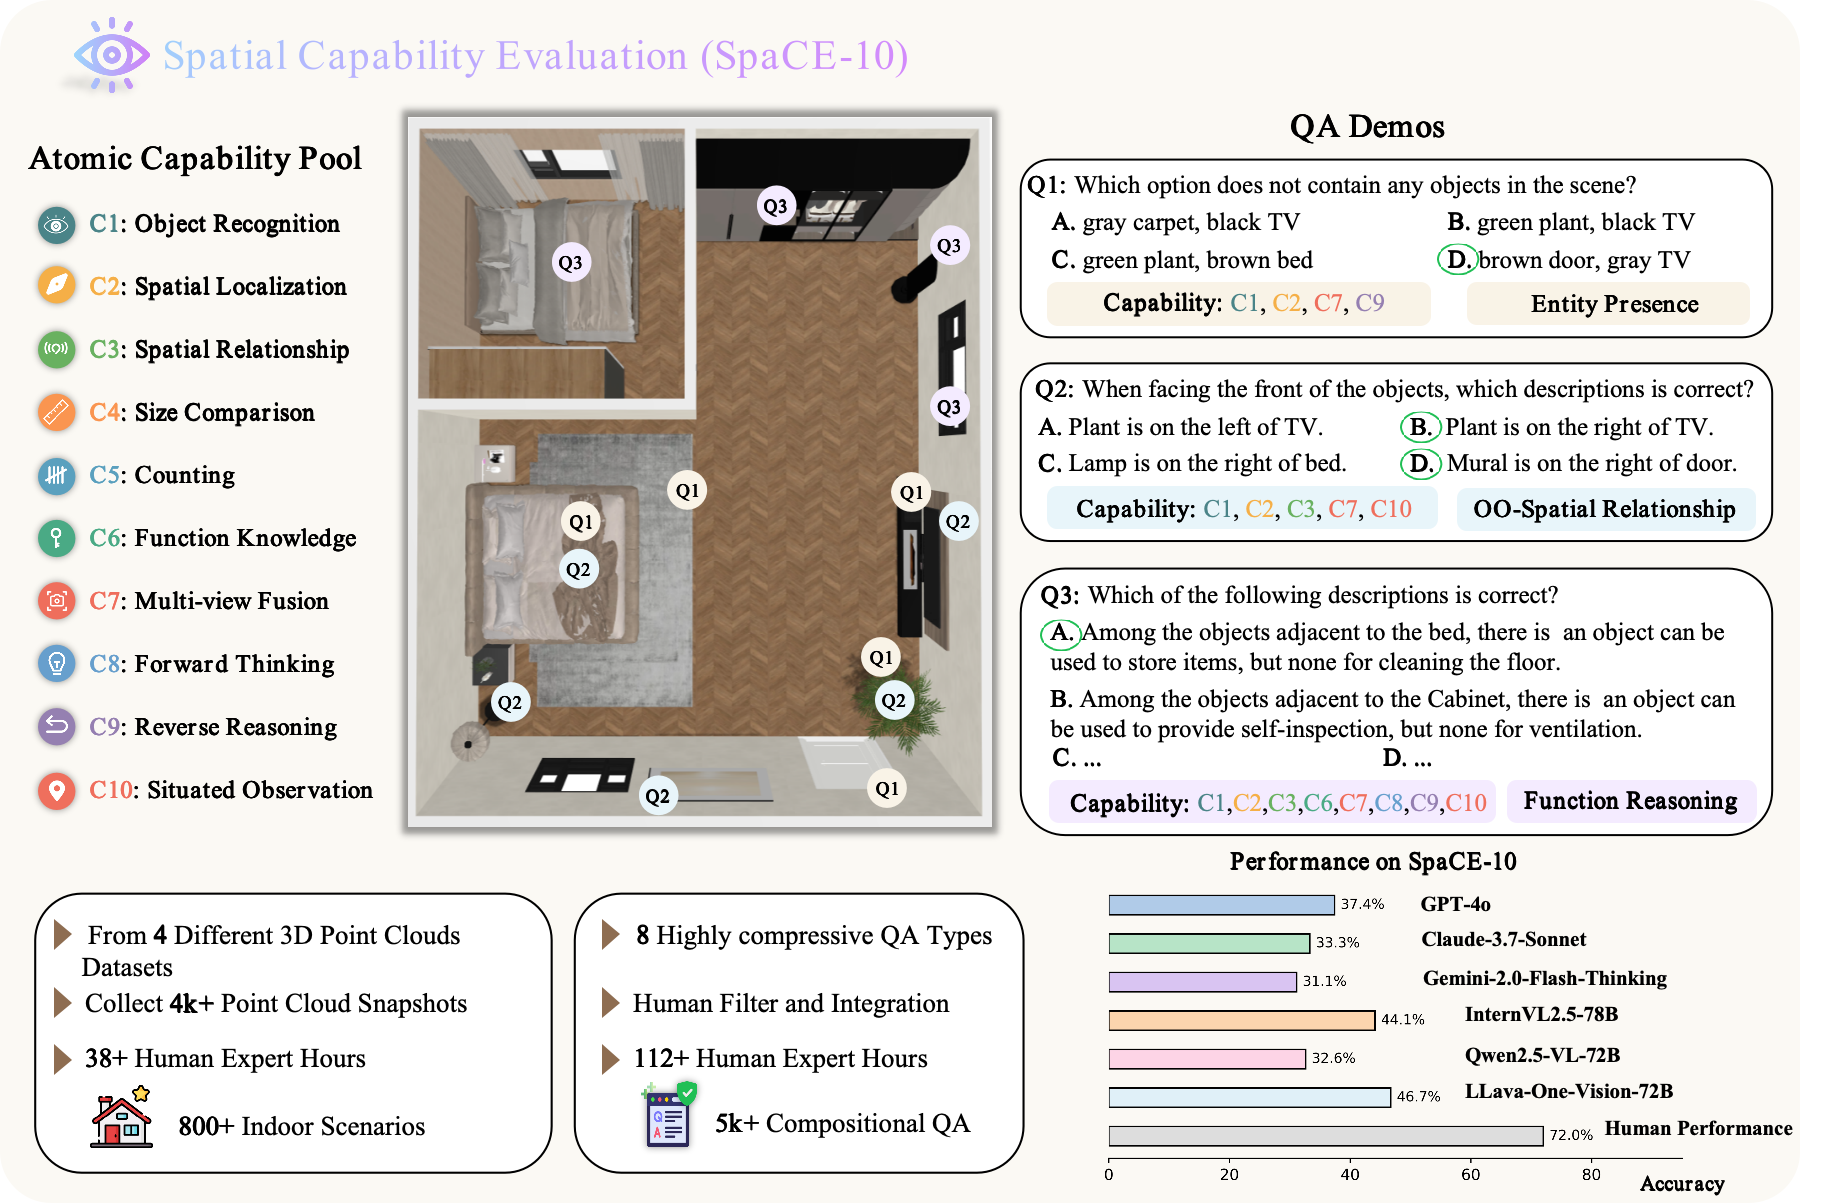
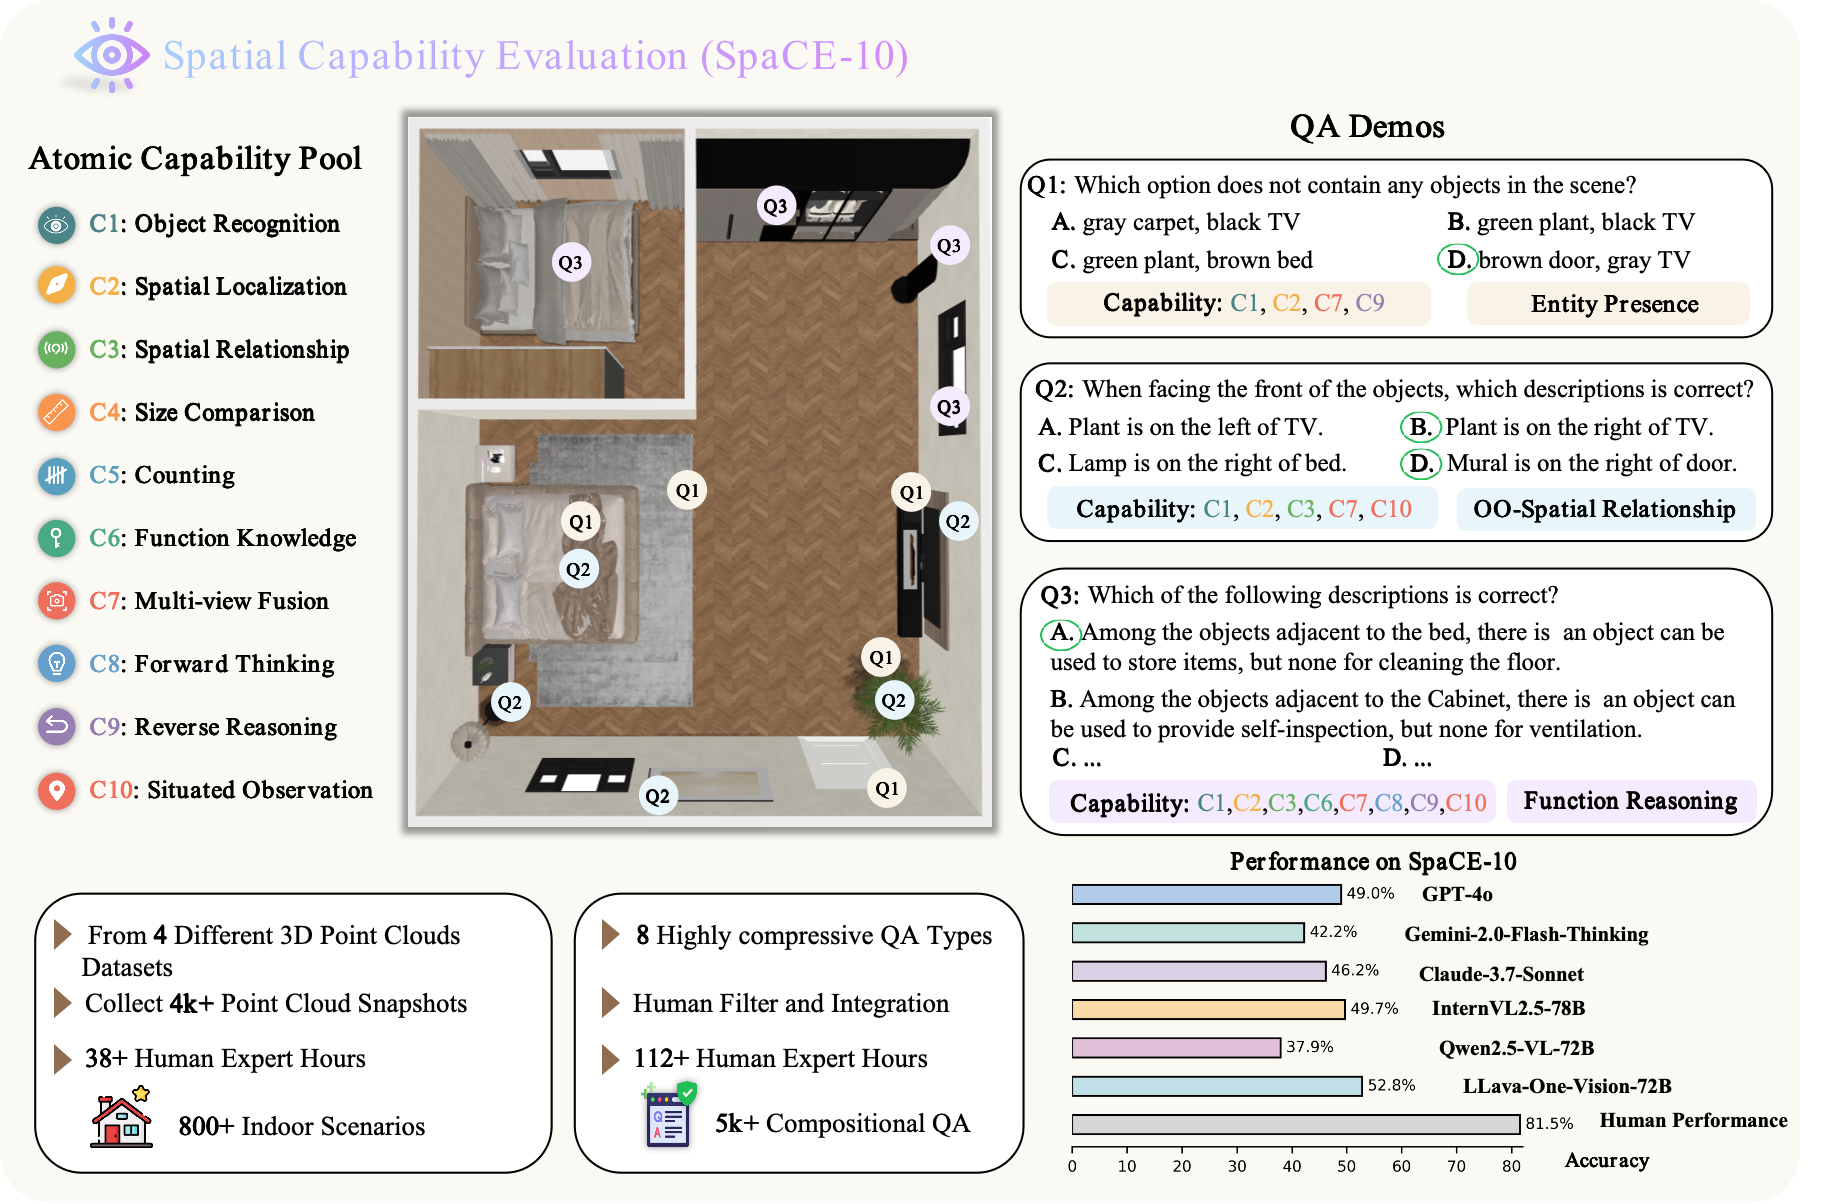
update

Changed region(s): [[0.5573, 0.7068, 0.9908, 1.0]]

diff --git a/lmms_eval/tasks/space_10/space_evals_2choice.py b/lmms_eval/tasks/space_10/space_evals_2choice.py
@@ -82,21 +82,34 @@ class SpaCE_Evaluator_2choice:
 
     # Prefetch Answers
     def can_infer_option(self, answer, num_choice=5):
+        print("answer_1:", answer)
         choices = set(string.ascii_uppercase[:num_choice])  # A ~ E
         answer = answer.strip().upper()
-        
-        # 以逗号切分，剔除空格
-        tokens = [t.strip() for t in answer.split(',')]
+        print("answer_2:", answer)
 
-        # 过滤合法选项
+        try:
+            parsed = ast.literal_eval(answer)
+            if isinstance(parsed, list):
+                tokens = []
+                for item in parsed:
+                    if isinstance(item, str):
+                        tokens.extend([t.strip().upper() for t in item.split(',')])
+                    else:
+                        tokens.append(str(item).strip().upper())
+            else:
+                tokens = [t.strip().upper() for t in answer.split(',')]
+        except:
+            tokens = [t.strip().upper() for t in answer.split(',')]
+
+        print("answer_3:", tokens)
+
         filtered = sorted(list(set([t for t in tokens if t in choices])))
-        # print("filtered:",filtered)
+        print("filtered:", filtered)
+
         if 'F' in filtered:
             return filtered
         elif 1 <= len(filtered) <= 2:
             return filtered
-        
-        # print("prediction:", filtered)
 
         return False
 
@@ -229,6 +242,7 @@ class SpaCE_Evaluator_2choice:
 
     # Evaluate Results
     def eval_result(self, results, eval_method):
+
         rd.seed(2680)
         assert eval_method == "openai"
         # Set a large retry number to avoid failure

diff --git a/README.md b/README.md
@@ -53,12 +53,39 @@
 ---
 # 🔥🔥🔥 News
 <!-- - 🤖 [2025/06/10] Baseline results with GPT-4o, InternVL, Claude-3, LLaVA and more are available. -->
-- 🖼 [2025/06/11] Scans for 3D MLLMs and our manually collected 3D snapshots will be coming soon.
-- 💻 [2025/06/10] Evaluation code is released at followings.
-- 📊 [2025/06/09] We have released the benchmark for 2D MLLMs at [Hugging Face](https://huggingface.co/datasets/Cusyoung/SpaCE-10).
-- 📚 [2025/06/09] The paper of SpaCE-10 is released at [Arxiv](https://arxiv.org/abs/2506.07966v1), and it will be updating continually!
+- [2025/07/12] Adjust some QAs of Space-10 and update RemyxAI models' performance to leader board. 
+- [2025/06/11] Scans for 3D MLLMs and our manually collected 3D snapshots will be coming soon.
+- [2025/06/10] Evaluation code is released at followings.
+- [2025/06/09] We have released the benchmark for 2D MLLMs at [Hugging Face](https://huggingface.co/datasets/Cusyoung/SpaCE-10).
+- [2025/06/09] The paper of SpaCE-10 is released at [Arxiv](https://arxiv.org/abs/2506.07966v1)!
 ---
 
+
+# Performance Leader Board - Single-Choice
+🎉 LLaVA-OneVision-72B achieves the Rank 1 in all tested models.
+
+🎉 GPT-4o achieves the best score in tested Close-Source models.
+
+A large gap still exists between human and models in compositional spatial intelligence.
+
+
+<div align="center">
+<img src="assets/Perfomance_Leader_Board.png" width="100%">
+<br>
+</div>
+
+# Single-Choice vs. Double-Choice
+<div align="center">
+<img src="assets/single-double.png" width="100%">
+<br>
+</div>
+
+
+# Capability Score Ranking - Single-Choice
+<div align="center">
+<img src="assets/Capability_Score_Matrix.png" width="100%">
+<br>
+</div>
 
 
 # Environment 
